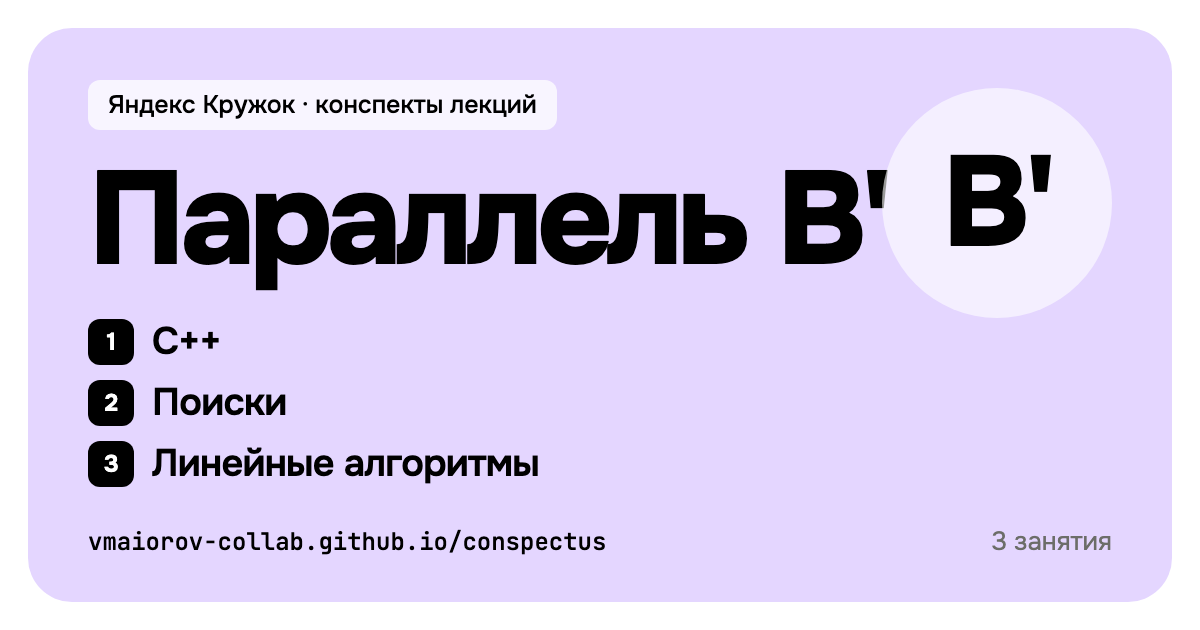
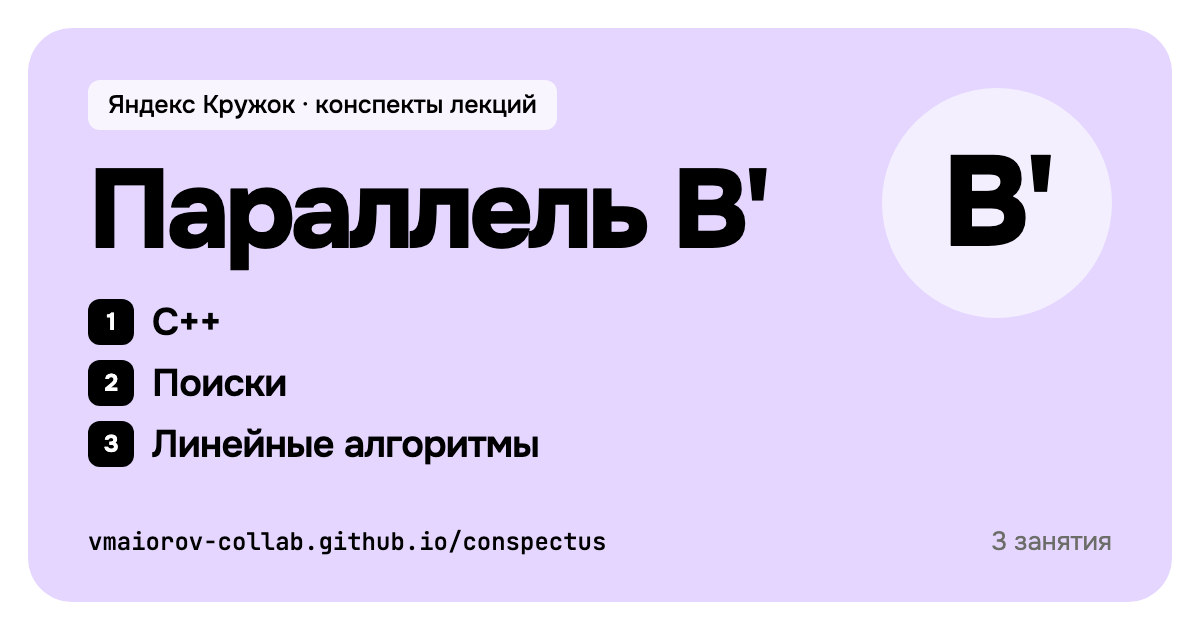
Превью параллелей: заголовок не залезает на круг

Changed region(s): [[0.0617, 0.2413, 0.74, 0.4825], [0.0617, 0.4524, 0.4625, 0.7841]]

diff --git a/scripts/build_og.py b/scripts/build_og.py
@@ -64,7 +64,7 @@ def parallel(key, name, badge, titles):
     items = ''.join(f'<li><em>{i + 1}</em>{esc(t)}</li>' for i, t in enumerate(titles))
     return BASE + f'''<style>
 .panel{{background:{PASTEL[key]}}}
-h1{{font-size:132px}}
+h1{{font-size:112px;white-space:nowrap}}
 ul{{list-style:none;margin:32px 0 0;padding:0;display:grid;gap:12px;max-width:820px}}
 li{{display:flex;gap:18px;align-items:center;font-size:38px;font-weight:600;letter-spacing:-.02em}}
 li em{{display:flex;align-items:center;justify-content:center;flex:none;width:46px;height:46px;border-radius:12px;background:#000;color:#fff;font-style:normal;font-size:24px;font-weight:700}}
